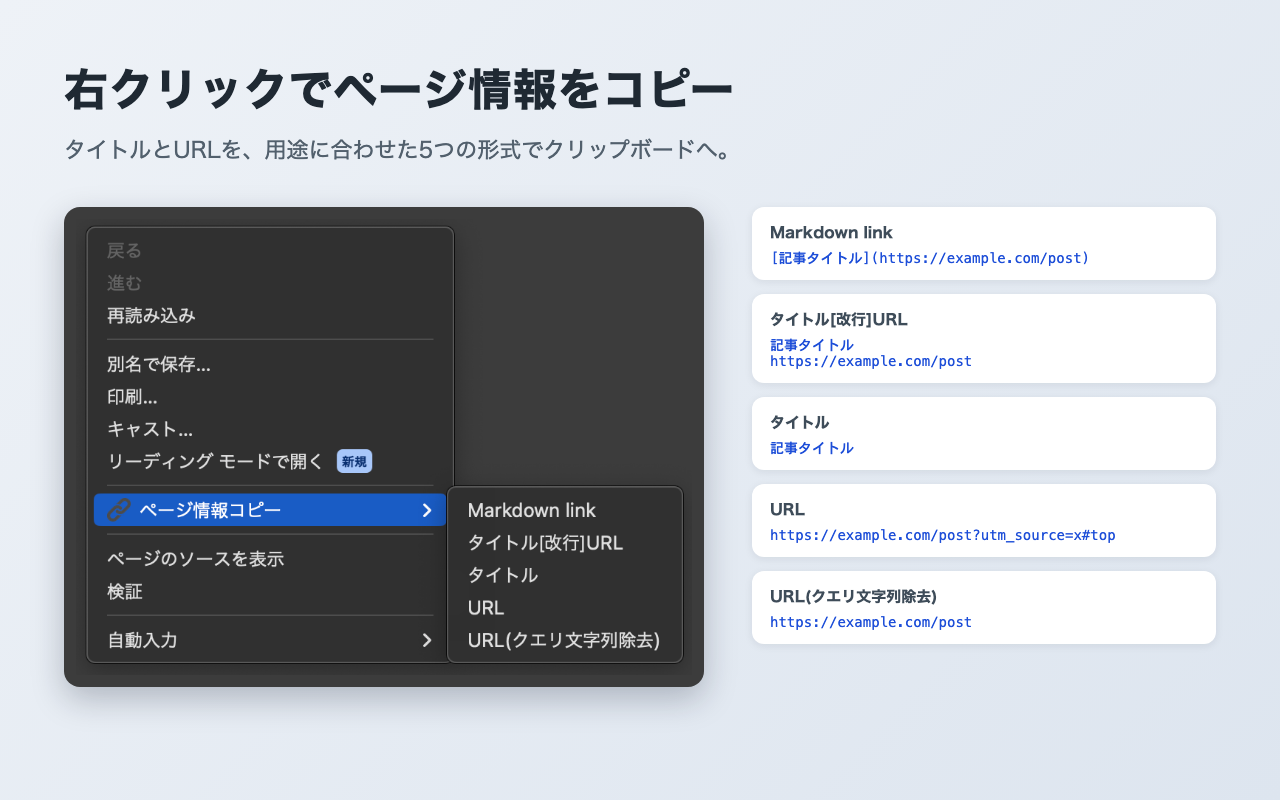
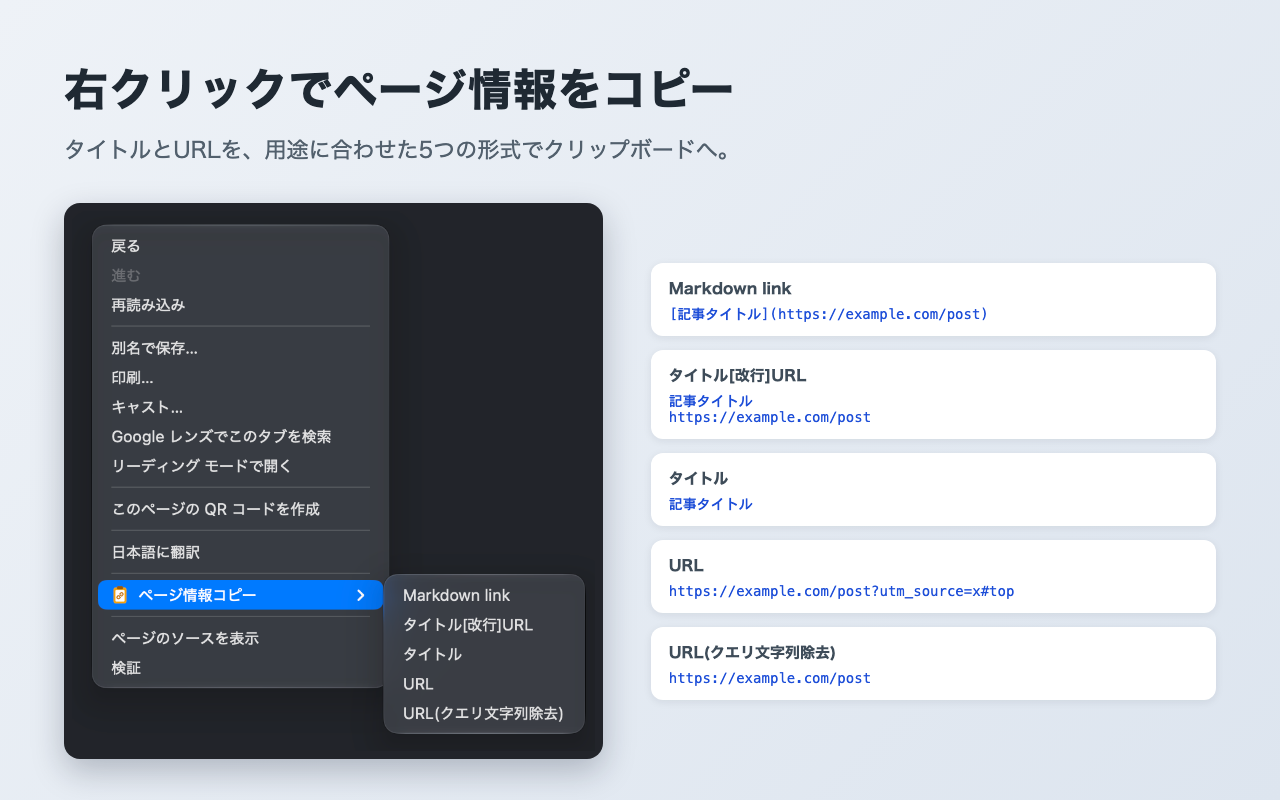
📸 スクリーンショットを新アイコンで撮り直したものに差し替え
旧アイコンが写っていた実機キャプチャを差し替え、縦長になったため
ストア用スクリーンショットのレイアウトを高さ基準に調整した。

diff --git a/store/screenshot-1.html b/store/screenshot-1.html
@@ -13,16 +13,15 @@
   }
   h1 { font-size: 44px; font-weight: 700; letter-spacing: 0.02em; }
   .lead { margin-top: 12px; font-size: 22px; color: #52606d; }
-  .main { margin-top: 40px; display: flex; gap: 48px; align-items: flex-start; }
+  .main { margin-top: 36px; display: flex; gap: 48px; align-items: center; }
   .menu {
     flex: none;
-    width: 640px;
     border-radius: 16px;
-    background: #3c3c3c;
-    padding: 12px;
+    background: #22242a;
+    padding: 8px;
     box-shadow: 0 12px 32px rgba(15, 23, 42, 0.25);
   }
-  .menu img { display: block; width: 100%; }
+  .menu img { display: block; height: 540px; }
   .formats { flex: 1; display: flex; flex-direction: column; gap: 14px; }
   .format {
     background: #fff;
